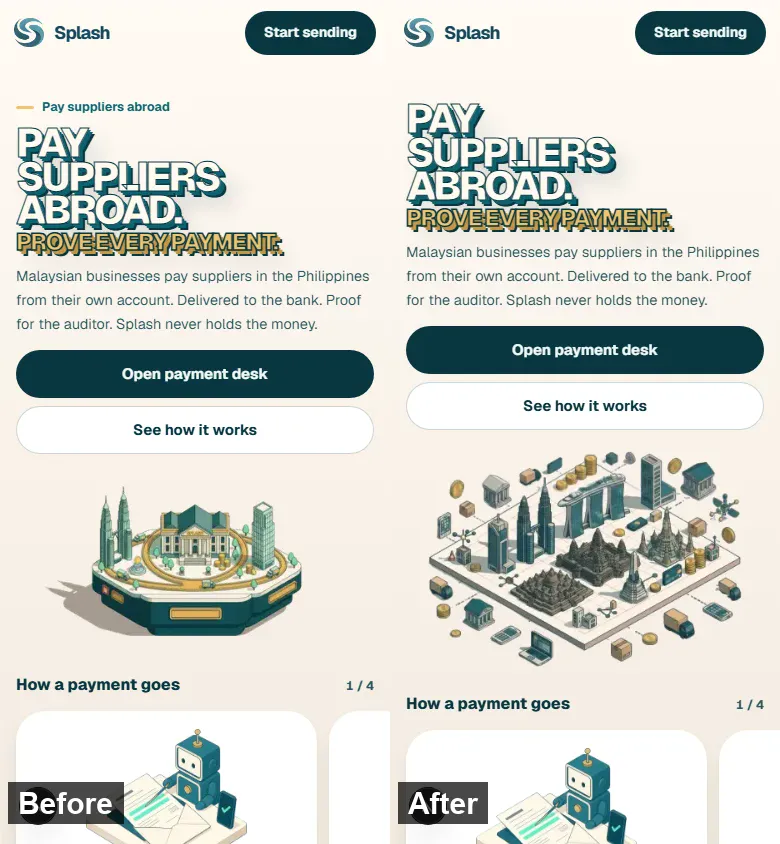
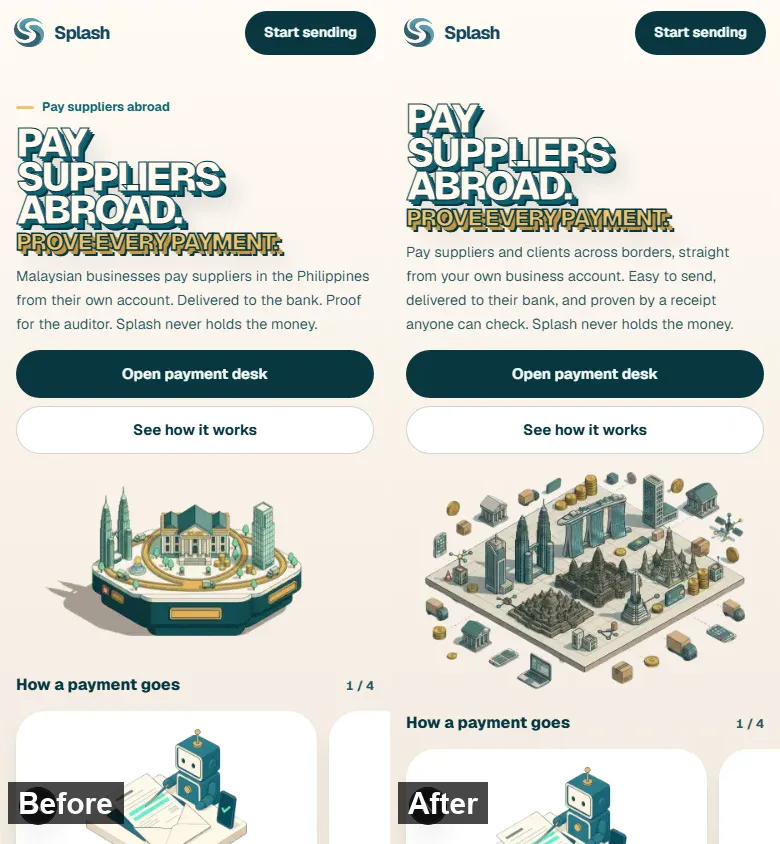
Landing refresh: the pictures show the final code
The before and after pairs are retaken on 702b28e (Sky's own map, the new hero line, flat headlines), and a
pair for the comparison table at 2365 px joins them.

Changed region(s): [[0.5231, 0.2773, 0.9846, 1.0], [0.9231, 0.8318, 1.0, 0.8934]]

diff --git a/docs/design/p12/refresh/README.md b/docs/design/p12/refresh/README.md
@@ -1,15 +1,16 @@
 # Landing refresh: before and after
 
-Sky's notes of 21 Oct 2026 on the landing, previewed in the app and approved: hero B (Sky's map of Southeast
-Asia) and the district in loop 02 Keep.
+Sky's notes of 21 Oct 2026 on the landing, in two rounds, previewed in the app: hero B (Sky's map of Southeast
+Asia, in Sky's own cut-out), the district in loop 02 Keep, a new hero line, flat section headlines and a better
+comparison table.
 
-Before is `7f61df4` (the tip of the wide-desktop branch) and after is `c3660e2`, each taken on a freshly started
-dev server in a 1440 × 900 window (the phone pair at 390 × 844). The black "N" at the bottom left is Next's dev
+Before is `7f61df4` (the tip of the wide-desktop branch) and after is `702b28e` (the final code), each taken on a
+freshly started dev server in a 1440 × 900 window (the phone pair at 390 × 844, the comparison pair at 2365 × 1180). The black "N" at the bottom left is Next's dev
 badge.
 
 | Picture | What changed |
 |---|---|
-| [`01-hero-opening.webp`](01-hero-opening.webp) | Sky's map is the opening picture, bigger; no kicker over the headline; "Scroll to settle" in place of the step rail |
+| [`01-hero-opening.webp`](01-hero-opening.webp) | Sky's map is the opening picture, bigger; the line names no single corridor; no kicker over the headline; "Scroll to settle" in place of the step rail |
 | [`02-hero-step-03.webp`](02-hero-step-03.webp) | A later step: a bigger picture and its random coin (here MYR); no rail |
 | [`03-loops.webp`](03-loops.webp) | Bigger pictures; loop 02 Keep shows the district |
 | [`04-how-it-works.webp`](04-how-it-works.webp) | Bigger headline, steps and panel; the headline's extrusion reads against the band |
@@ -17,6 +18,7 @@ badge.
 | [`06-routes-corridors.webp`](06-routes-corridors.webp) | "Stablecoin in. Local currency out.", the Southeast Asia band folded in as corridor pills, the payment ticket |
 | [`07-trust.webp`](07-trust.webp) | v1's dark ground with no grid lines, a flat headline, the gold line and glass cards |
 | [`08-zeke.webp`](08-zeke.webp) | v1's copilot layout, with what this build's Zeke does |
-| [`09-phone-hero.webp`](09-phone-hero.webp) | The phone hero: Sky's map, no kicker |
+| [`09-phone-hero.webp`](09-phone-hero.webp) | The phone hero: Sky's map, the new line, no kicker |
+| [`10-comparison-2365.webp`](10-comparison-2365.webp) | The comparison table: row icons, quiet columns, Splash a dark column with a gold head; its headline flat |
 
-The random coin differs from visit to visit; the after picture shows one pick.
+Every section headline is flat in the after pictures; only the hero keeps the extruded type. The random coin differs from visit to visit; the after picture shows one pick.
